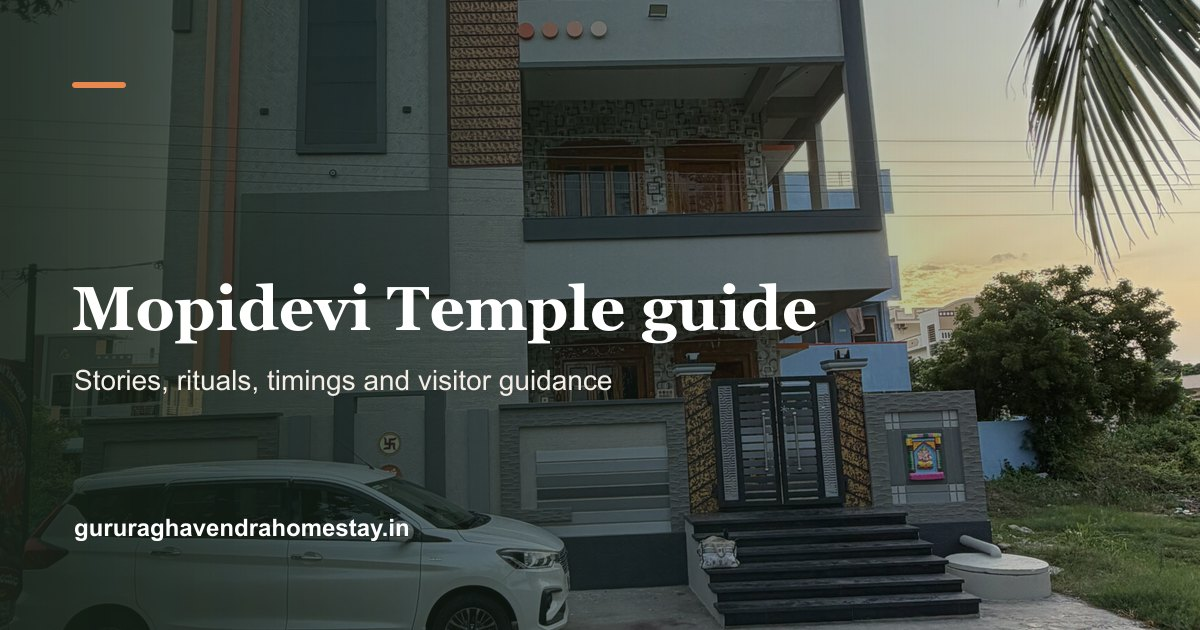
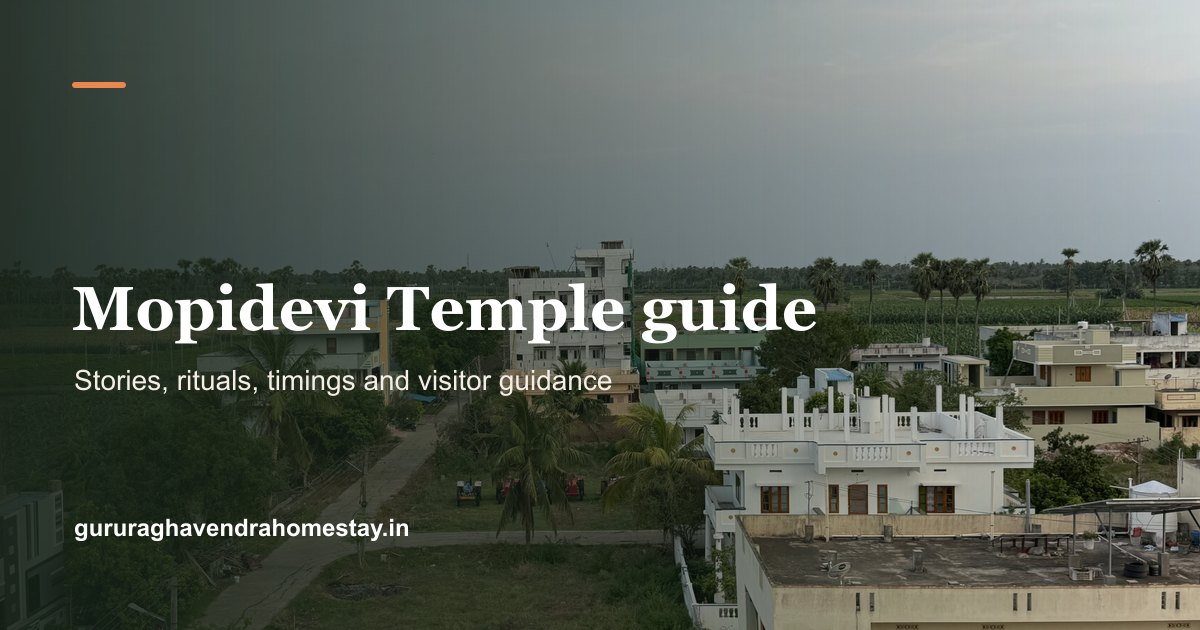
Fix misleading contextual images

diff --git a/src/data/gallery.ts b/src/data/gallery.ts
@@ -5,7 +5,6 @@
 
 export type GalleryCategory =
   | 'rooms'
-  | 'kitchen'
   | 'bathrooms'
   | 'common'
   | 'terrace'
@@ -57,7 +56,6 @@ export const galleryImages: GalleryImage[] = [
 export const galleryCategories: { id: GalleryCategory | 'all'; label: string }[] = [
   { id: 'all', label: 'All' },
   { id: 'rooms', label: 'Rooms' },
-  { id: 'kitchen', label: 'Kitchen' },
   { id: 'bathrooms', label: 'Bathrooms' },
   { id: 'common', label: 'Common Spaces' },
   { id: 'terrace', label: 'Terrace' },

diff --git a/src/data/seo.ts b/src/data/seo.ts
@@ -46,7 +46,7 @@ export const pageSeo: Record<string, PageSeo> = {
     path: '/gallery/',
     title: `${businessName} Gallery | Mopidevi`,
     description:
-      'See the rooms, kitchen, bathrooms, terrace, exterior and countryside surroundings of Sri Guru Raghavendra HomeStay in Mopidevi.',
+      'See the rooms, common spaces, bathrooms, terrace, exterior and countryside surroundings of Sri Guru Raghavendra HomeStay in Mopidevi.',
     h1: 'Property Gallery',
     ogImage: '/og/gallery.jpg',
   },
